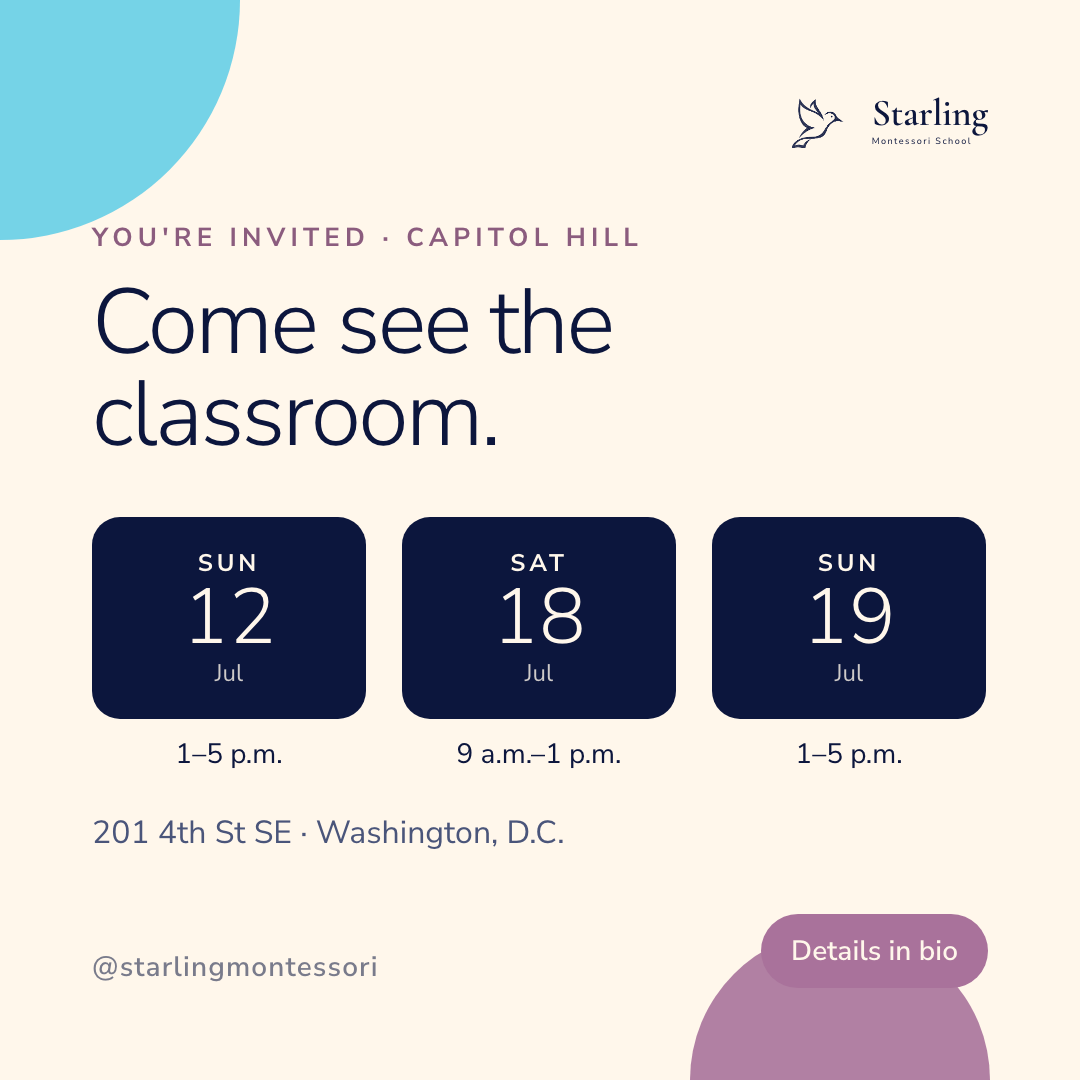
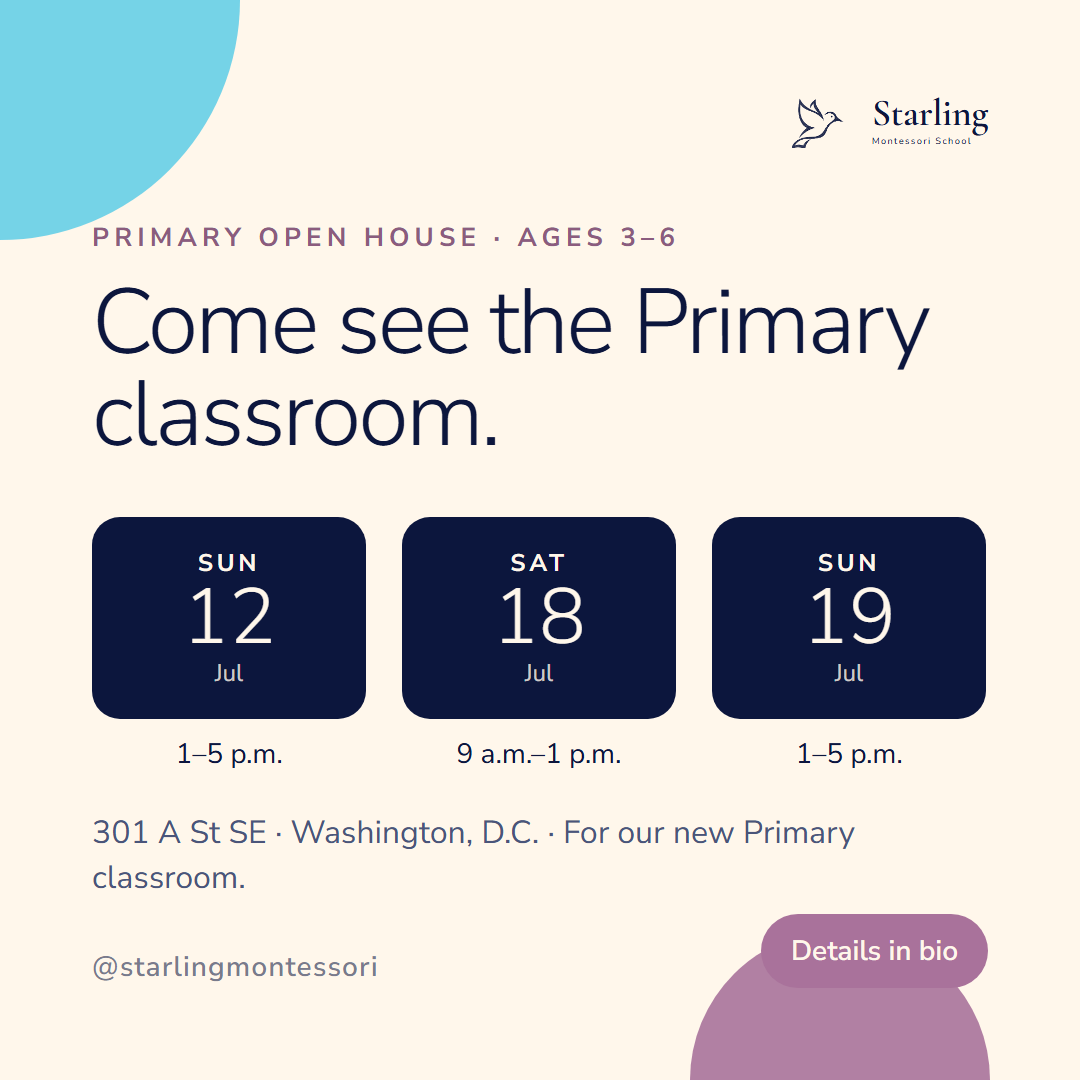
content(social): add Fourth of July post, fix open-house venue and audience
- New Fourth of July feed post (photo card + calendar entry)
- Open-house posts: corrected venue address (301 A St SE) and rewrote
  copy/hashtags to target Primary families only, per Fabienne's request

diff --git a/src/lib/social.ts b/src/lib/social.ts
@@ -705,13 +705,13 @@ export const SEED_POSTS: SocialPost[] = [
       {
         full: "/social/openhouse-announce.png",
         thumb: "/social/thumbs/openhouse-announce.jpg",
-        alt: "Starling Montessori open-house invitation card with three July dates: Sunday July 12 1–5pm, Saturday July 18 9am–1pm, Sunday July 19 1–5pm, at 201 4th St SE, Capitol Hill, Washington DC.",
+        alt: "Starling Montessori Primary open house invitation card, ages 3 to 6, with three July dates: Sunday July 12 1–5pm, Saturday July 18 9am–1pm, Sunday July 19 1–5pm, at 301 A St SE, Capitol Hill, Washington DC.",
       },
     ],
     caption:
-      "Our doors are open this July.\n\nWe're hosting three open houses at our Capitol Hill classroom — a chance to walk the prepared environment, meet Fabienne and other families, and see what an unhurried Montessori morning really looks like.\n\nCome to whichever fits your family:\n• Sunday, July 12 · 1–5 pm\n• Saturday, July 18 · 9 am–1 pm\n• Sunday, July 19 · 1–5 pm\n\n201 4th St SE, Washington, DC. No appointment needed — just come by. Whether your little one is toddler-age or you're looking ahead to our Primary classroom opening this August, we'd love to meet you.\n\nQuestions? Send us a message or tap the link in our bio.",
+      "Our doors are open this July — for our new Primary classroom.\n\nWe're hosting three open houses to introduce the Primary classroom (ages 3 to 6), opening this August on Capitol Hill. Come walk the prepared environment, meet Fabienne, and see what an unhurried Montessori morning really looks like.\n\nCome to whichever fits your family:\n• Sunday, July 12 · 1–5 pm\n• Saturday, July 18 · 9 am–1 pm\n• Sunday, July 19 · 1–5 pm\n\n301 A St SE, Washington, DC. No appointment needed — just come by, with your child.\n\nQuestions? Send us a message or tap the link in our bio.",
     hashtags:
-      "#StarlingMontessori #CapitolHillDC #WashingtonDC #MontessoriEducation #OpenHouse #DCParents #CapitolHillFamilies",
+      "#StarlingMontessori #CapitolHillDC #WashingtonDC #MontessoriPrimary #OpenHouse #DCParents #CapitolHillFamilies",
     cta: "No appointment needed — just come by. Details in bio.",
     bioLink: "/open-house",
     notes: "Publish now (announcement). Anchor post for all three July open houses.",
@@ -732,13 +732,13 @@ export const SEED_POSTS: SocialPost[] = [
       {
         full: "/social/openhouse-jul12.png",
         thumb: "/social/thumbs/openhouse-jul12.jpg",
-        alt: "Open-house reminder card: Sunday July 12, 1–5pm, Starling Montessori, 201 4th St SE, Capitol Hill, Washington DC.",
+        alt: "Primary open house reminder card, ages 3 to 6: Sunday July 12, 1–5pm, Starling Montessori, 301 A St SE, Capitol Hill, Washington DC.",
       },
     ],
     caption:
-      "Tomorrow: our first open house.\n\nSunday, July 12, 1–5 pm at our Capitol Hill classroom. Come by anytime in the window — walk the room, meet Fabienne, and let your little one explore the materials at their own pace.\n\n201 4th St SE, Washington, DC. No appointment needed. We'd love to see you.",
+      "Tomorrow: our first Primary open house.\n\nSunday, July 12, 1–5 pm — come see the new Primary classroom (ages 3 to 6), opening this August on Capitol Hill. Walk the room, meet Fabienne, and let your child explore the materials at their own pace.\n\n301 A St SE, Washington, DC. No appointment needed. We'd love to see you and your child.",
     hashtags:
-      "#StarlingMontessori #CapitolHillDC #OpenHouse #WashingtonDC #MontessoriToddler #DCParents",
+      "#StarlingMontessori #CapitolHillDC #OpenHouse #WashingtonDC #MontessoriPrimary #DCParents",
     cta: "Drop in anytime — no appointment needed.",
     bioLink: "/open-house",
     notes: "Publish Sat Jul 11 (day before the Sun Jul 12 open house).",
@@ -759,11 +759,11 @@ export const SEED_POSTS: SocialPost[] = [
       {
         full: "/social/openhouse-jul18.png",
         thumb: "/social/thumbs/openhouse-jul18.jpg",
-        alt: "Open-house reminder card: Saturday July 18, 9am–1pm, Starling Montessori, Capitol Hill, Washington DC.",
+        alt: "Primary open house reminder card, ages 3 to 6: Saturday July 18, 9am–1pm, Starling Montessori, Capitol Hill, Washington DC.",
       },
     ],
     caption:
-      "This Saturday morning, the door is open.\n\nOpen house Saturday, July 18, 9 am–1 pm at our Capitol Hill classroom. A relaxed, unhurried visit — see the prepared environment, ask Fabienne anything, and picture your child here.\n\n201 4th St SE, Washington, DC. Drop in anytime, and bring your little one along.",
+      "This Saturday morning, the door is open — to our new Primary classroom.\n\nOpen house Saturday, July 18, 9 am–1 pm: see the prepared environment for ages 3 to 6, opening this August on Capitol Hill. A relaxed, unhurried visit — ask Fabienne anything, and picture your child here.\n\n301 A St SE, Washington, DC. Drop in anytime with your child.",
     hashtags:
       "#StarlingMontessori #CapitolHillDC #OpenHouse #WashingtonDC #MontessoriEducation #DCParents",
     cta: "Drop in anytime — no appointment needed.",
@@ -786,11 +786,11 @@ export const SEED_POSTS: SocialPost[] = [
       {
         full: "/social/openhouse-jul19.png",
         thumb: "/social/thumbs/openhouse-jul19.jpg",
-        alt: "Open-house reminder card: Sunday July 19, 1–5pm, Starling Montessori, Capitol Hill, Washington DC.",
+        alt: "Primary open house reminder card, ages 3 to 6, last date: Sunday July 19, 1–5pm, Starling Montessori, Capitol Hill, Washington DC.",
       },
     ],
     caption:
-      "One more chance to visit — tomorrow.\n\nOur last July open house is Sunday, July 19, 1–5 pm at our Capitol Hill classroom. If you've been meaning to come see Starling, this is the one. Walk the room, meet other families, and see what calm, child-led learning looks like.\n\n201 4th St SE, Washington, DC. No appointment needed. We'd love to meet you.",
+      "One more chance to visit — tomorrow.\n\nOur last July open house for the new Primary classroom (ages 3 to 6) is Sunday, July 19, 1–5 pm. If you've been meaning to come see Starling, this is the one. Walk the room, meet other families, and see what calm, child-led learning looks like.\n\n301 A St SE, Washington, DC. No appointment needed. We'd love to meet you and your child.",
     hashtags:
       "#StarlingMontessori #CapitolHillDC #OpenHouse #WashingtonDC #MontessoriEducation #CapitolHillFamilies",
     cta: "Drop in anytime — no appointment needed.",
@@ -801,6 +801,34 @@ export const SEED_POSTS: SocialPost[] = [
     status: "draft",
     createdAt: "2026-06-30T12:00:00.000Z",
     updatedAt: "2026-06-30T12:00:00.000Z",
+  },
+
+  // ── HOLIDAY · FOURTH OF JULY ──────────────────────────────────────────────
+  {
+    id: "fourth-of-july-2026",
+    date: "2026-07-04",
+    dayLabel: "Sat",
+    title: "Fourth of July greeting",
+    format: "feed",
+    pillar: "Community · Holiday",
+    channel: "Instagram + Facebook",
+    images: [
+      {
+        full: "/social/fourth-of-july.png",
+        thumb: "/social/thumbs/fourth-of-july.jpg",
+        alt: "A child smiling and holding a red, white, and blue popsicle, with the text: Happy Fourth of July, wishing your family a joyful Fourth.",
+      },
+    ],
+    caption:
+      "Happy Fourth of July from all of us at Starling!\n\nWe hope you and your family have a wonderful day together, filled with sunshine, good company, and maybe a few fireworks.\n\nTag us in your Fourth of July moments — we'd love to see them. With so much gratitude for this community.",
+    hashtags: "#StarlingMontessori #CapitolHillDC #WashingtonDC #FourthOfJuly #DCFamilies",
+    cta: "Happy Fourth, from our family to yours.",
+    bioLink: "/",
+    notes: "Publish morning of Jul 4.",
+    locked: false,
+    status: "draft",
+    createdAt: "2026-07-03T12:00:00.000Z",
+    updatedAt: "2026-07-03T12:00:00.000Z",
   },
 ];
 

diff --git a/social-templates/square/openhouse-announce.html b/social-templates/square/openhouse-announce.html
@@ -33,8 +33,8 @@
       </div>
 
       <div style="margin-top:70px;">
-        <div style="font-family:var(--font-sans); font-weight:700; font-size:26px; letter-spacing:0.2em; text-transform:uppercase; color:#8B5C7E;">You're invited · Capitol Hill</div>
-        <div style="font-weight:300; font-size:92px; line-height:1.0; letter-spacing:-0.03em; color:#0C163D; margin-top:20px;">Come see the classroom.</div>
+        <div style="font-family:var(--font-sans); font-weight:700; font-size:26px; letter-spacing:0.2em; text-transform:uppercase; color:#8B5C7E;">Primary open house · ages 3&#8211;6</div>
+        <div style="font-weight:300; font-size:92px; line-height:1.0; letter-spacing:-0.03em; color:#0C163D; margin-top:20px;">Come see the Primary classroom.</div>
       </div>
 
       <!-- Three date chips in a row, even gaps within 896px usable width -->
@@ -65,7 +65,7 @@
         </div>
       </div>
 
-      <div style="font-size:32px; color:#4A557A; line-height:1.4; margin-top:36px;">201 4th St SE · Washington, D.C.</div>
+      <div style="font-size:32px; color:#4A557A; line-height:1.4; margin-top:36px;">301 A St SE · Washington, D.C. · For our new Primary classroom.</div>
 
       <div style="margin-top:auto; display:flex; justify-content:space-between; align-items:flex-end;">
         <div style="font-family:var(--font-sans); font-weight:600; font-size:28px; letter-spacing:0.04em; color:#0C163D; opacity:0.55;">@starlingmontessori</div>

diff --git a/social-templates/square/fourth-of-july.html b/social-templates/square/fourth-of-july.html
@@ -1,0 +1,28 @@
+<!DOCTYPE html>
+<html lang="en">
+<head>
+<meta charset="UTF-8">
+<title>Starling IG Square — Fourth of July 1080×1080</title>
+<link rel="stylesheet" href="../tokens.css">
+<style>
+  html, body { margin: 0; }
+  body { background: #ECE6DB; display: flex; align-items: center; justify-content: center; min-height: 100vh; }
+  .artboard {
+    width: 1080px; height: 1080px; background: #0C163D;
+    position: relative; overflow: hidden; font-family: var(--font-sans);
+  }
+</style>
+</head>
+<body>
+  <div class="artboard">
+    <img src="../assets/photos/fourth-of-july-popsicle.webp" alt="" style="position:absolute; top:0; left:0; width:100%; height:900px; object-fit:cover; object-position:50% 0%;">
+    <div style="position:absolute; left:0; right:0; bottom:0; height:180px; background:#0C163D; display:flex; align-items:center; justify-content:space-between; padding:0 72px;">
+      <div>
+        <div style="font-family:var(--font-sans); font-weight:700; font-size:22px; letter-spacing:0.2em; text-transform:uppercase; color:#66CEE7;">Happy fourth of July</div>
+        <div style="font-family:var(--font-display); font-style:italic; font-weight:500; font-size:48px; color:#FFF7EB; margin-top:8px;">Wishing your family a joyful Fourth.</div>
+      </div>
+      <img src="../assets/bird-cream.png" alt="Starling" style="height:84px; width:auto; object-fit:contain; display:block;">
+    </div>
+  </div>
+</body>
+</html>

diff --git a/social-templates/square/openhouse-jul18.html b/social-templates/square/openhouse-jul18.html
@@ -33,7 +33,7 @@
       </div>
 
       <div style="margin-top:70px;">
-        <div style="font-family:var(--font-sans); font-weight:700; font-size:26px; letter-spacing:0.2em; text-transform:uppercase; color:#8B5C7E;">Open house · Capitol Hill</div>
+        <div style="font-family:var(--font-sans); font-weight:700; font-size:26px; letter-spacing:0.2em; text-transform:uppercase; color:#8B5C7E;">Primary open house · ages 3&#8211;6</div>
         <div style="font-weight:300; font-size:92px; line-height:1.0; letter-spacing:-0.03em; color:#0C163D; margin-top:20px;">The door is open.</div>
       </div>
 
@@ -45,7 +45,7 @@
         </div>
         <div style="display:flex; flex-direction:column; justify-content:center; gap:14px;">
           <div data-slot="time" style="font-size:36px; color:#0C163D;">9 a.m.&#8211;1 p.m.</div>
-          <div style="font-size:32px; color:#4A557A; max-width:460px; line-height:1.4;">201 4th St SE · Washington, D.C. Bring your little one.</div>
+          <div style="font-size:32px; color:#4A557A; max-width:460px; line-height:1.4;">301 A St SE · Washington, D.C. For our new Primary classroom.</div>
         </div>
       </div>
 

diff --git a/social-templates/square/openhouse-jul12.html b/social-templates/square/openhouse-jul12.html
@@ -33,7 +33,7 @@
       </div>
 
       <div style="margin-top:70px;">
-        <div style="font-family:var(--font-sans); font-weight:700; font-size:26px; letter-spacing:0.2em; text-transform:uppercase; color:#8B5C7E;">Open house · Capitol Hill</div>
+        <div style="font-family:var(--font-sans); font-weight:700; font-size:26px; letter-spacing:0.2em; text-transform:uppercase; color:#8B5C7E;">Primary open house · ages 3&#8211;6</div>
         <div style="font-weight:300; font-size:92px; line-height:1.0; letter-spacing:-0.03em; color:#0C163D; margin-top:20px;">The door is open.</div>
       </div>
 
@@ -45,7 +45,7 @@
         </div>
         <div style="display:flex; flex-direction:column; justify-content:center; gap:14px;">
           <div data-slot="time" style="font-size:36px; color:#0C163D;">1&#8211;5 p.m.</div>
-          <div style="font-size:32px; color:#4A557A; max-width:460px; line-height:1.4;">201 4th St SE · Washington, D.C. Bring your little one.</div>
+          <div style="font-size:32px; color:#4A557A; max-width:460px; line-height:1.4;">301 A St SE · Washington, D.C. For our new Primary classroom.</div>
         </div>
       </div>
 

diff --git a/social-templates/square/openhouse-jul19.html b/social-templates/square/openhouse-jul19.html
@@ -33,7 +33,7 @@
       </div>
 
       <div style="margin-top:70px;">
-        <div style="font-family:var(--font-sans); font-weight:700; font-size:26px; letter-spacing:0.2em; text-transform:uppercase; color:#8B5C7E;">Open house · Last one</div>
+        <div style="font-family:var(--font-sans); font-weight:700; font-size:26px; letter-spacing:0.2em; text-transform:uppercase; color:#8B5C7E;">Primary open house · last one</div>
         <div style="font-weight:300; font-size:92px; line-height:1.0; letter-spacing:-0.03em; color:#0C163D; margin-top:20px;">The door is open.</div>
       </div>
 
@@ -45,7 +45,7 @@
         </div>
         <div style="display:flex; flex-direction:column; justify-content:center; gap:14px;">
           <div data-slot="time" style="font-size:36px; color:#0C163D;">1&#8211;5 p.m.</div>
-          <div style="font-size:32px; color:#4A557A; max-width:460px; line-height:1.4;">201 4th St SE · Washington, D.C. Bring your little one.</div>
+          <div style="font-size:32px; color:#4A557A; max-width:460px; line-height:1.4;">301 A St SE · Washington, D.C. For our new Primary classroom.</div>
         </div>
       </div>
 
